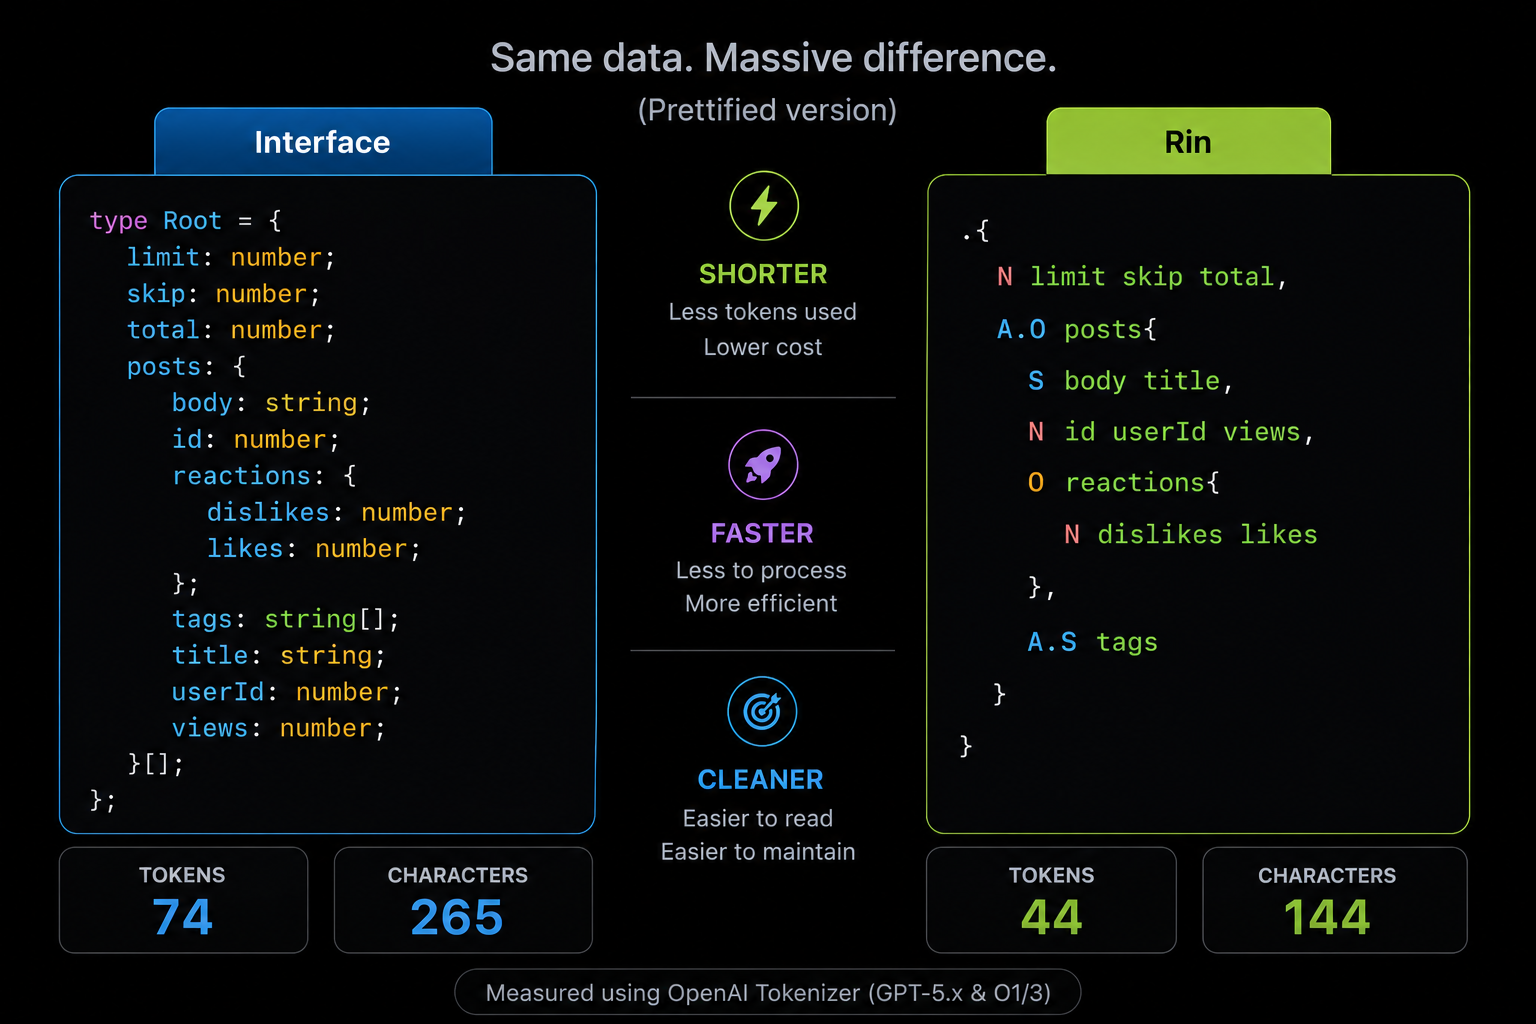
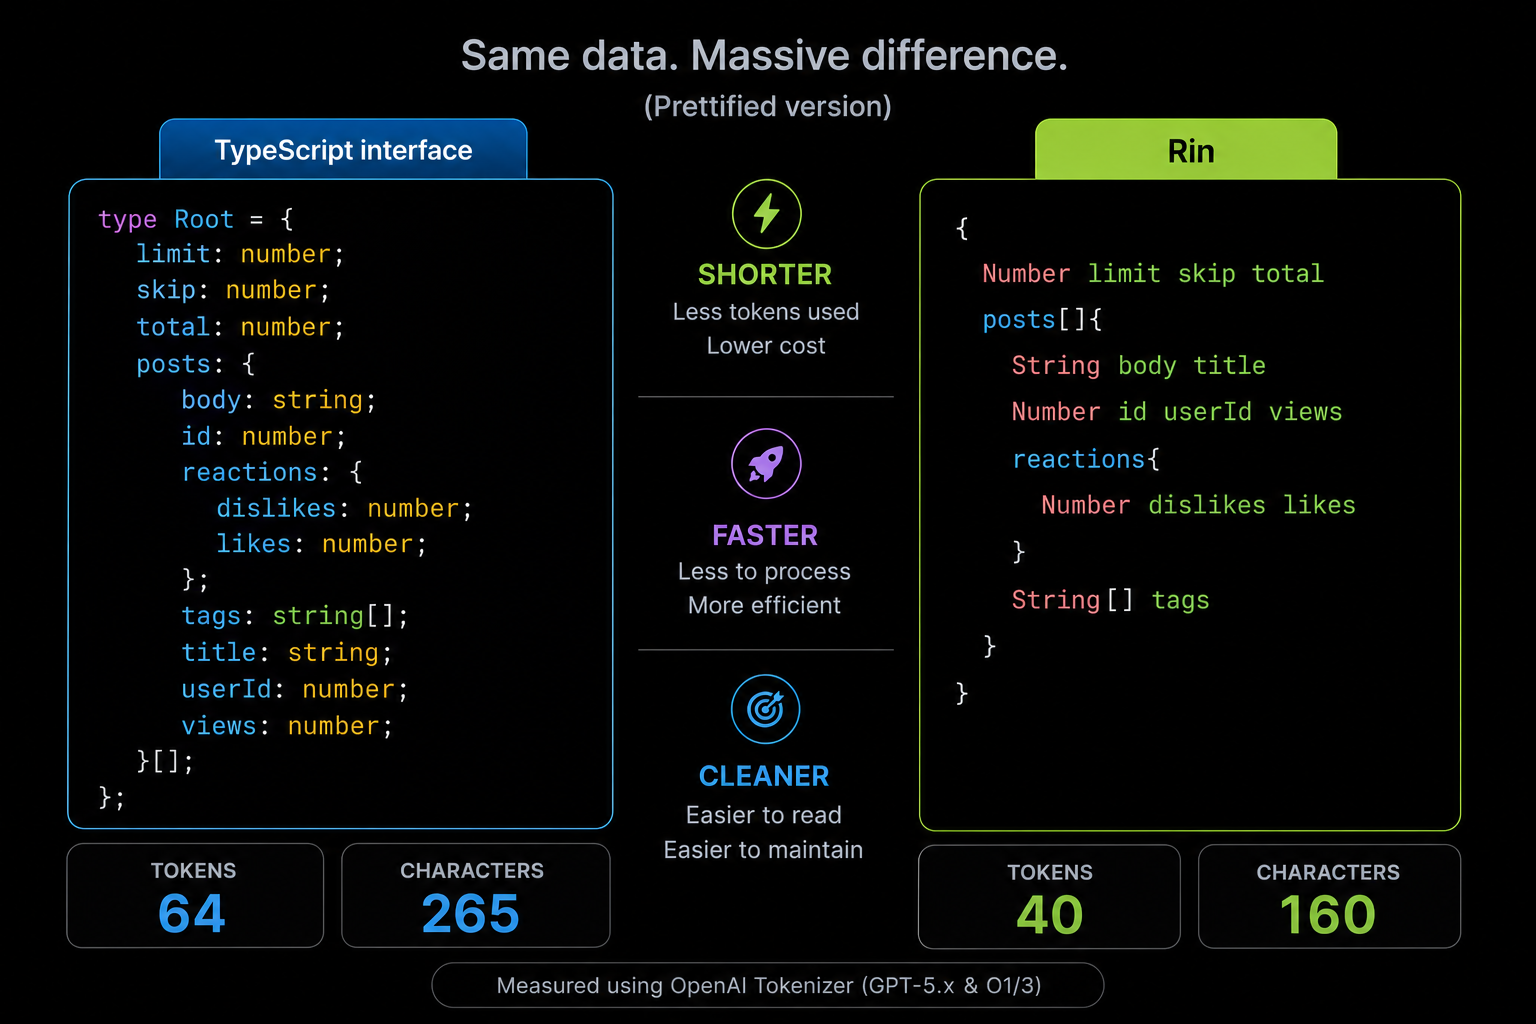
update readme

diff --git a/README.md b/README.md
@@ -1,6 +1,15 @@
-# RIN — Reduced Interface Notation
+# Rin — Reduced Interface Notation
 
-RIN is a readable, compact schema notation with a TypeScript parser, runtime validator, and CLI.
+Rin is a readable, compact schema notation with a TypeScript parser, runtime validator, and CLI.
+
+![RIN Token Efficiency Comparison](hero.png)
+
+Rin cuts schema size and token count by ~40% — same precision, less noise.
+
+> [!TIP]
+> Now supports JSON to Go structs. Use `-G` flag.
+
+## Syntax
 
 ```txt
 {
@@ -21,6 +30,23 @@ RIN is a readable, compact schema notation with a TypeScript parser, runtime val
 - In pretty output, primitive groups with more than five keys use a multiline block: `String (name last_name maiden_name? surname hash\n  here there where)`.
 - `#` starts a comment. Newlines, commas, and semicolons separate groups.
 - The first token of a group is always its primitive or object key. This makes `String String` unambiguous: it declares a string field named `String`.
+
+## Quick Start
+
+```ts
+import { validate } from "./rin.ts";
+
+const result = validate(
+  ".{ S name, N? age, A.O users?{ S email } }",
+  { name: "Ada", age: null, users: [{ email: "ada@example.test" }] }
+);
+
+if (result.ok) {
+  console.log("Valid payload:", result.value);
+} else {
+  console.error("Validation errors:", result.errors);
+}
+```
 
 ## CLI
 
